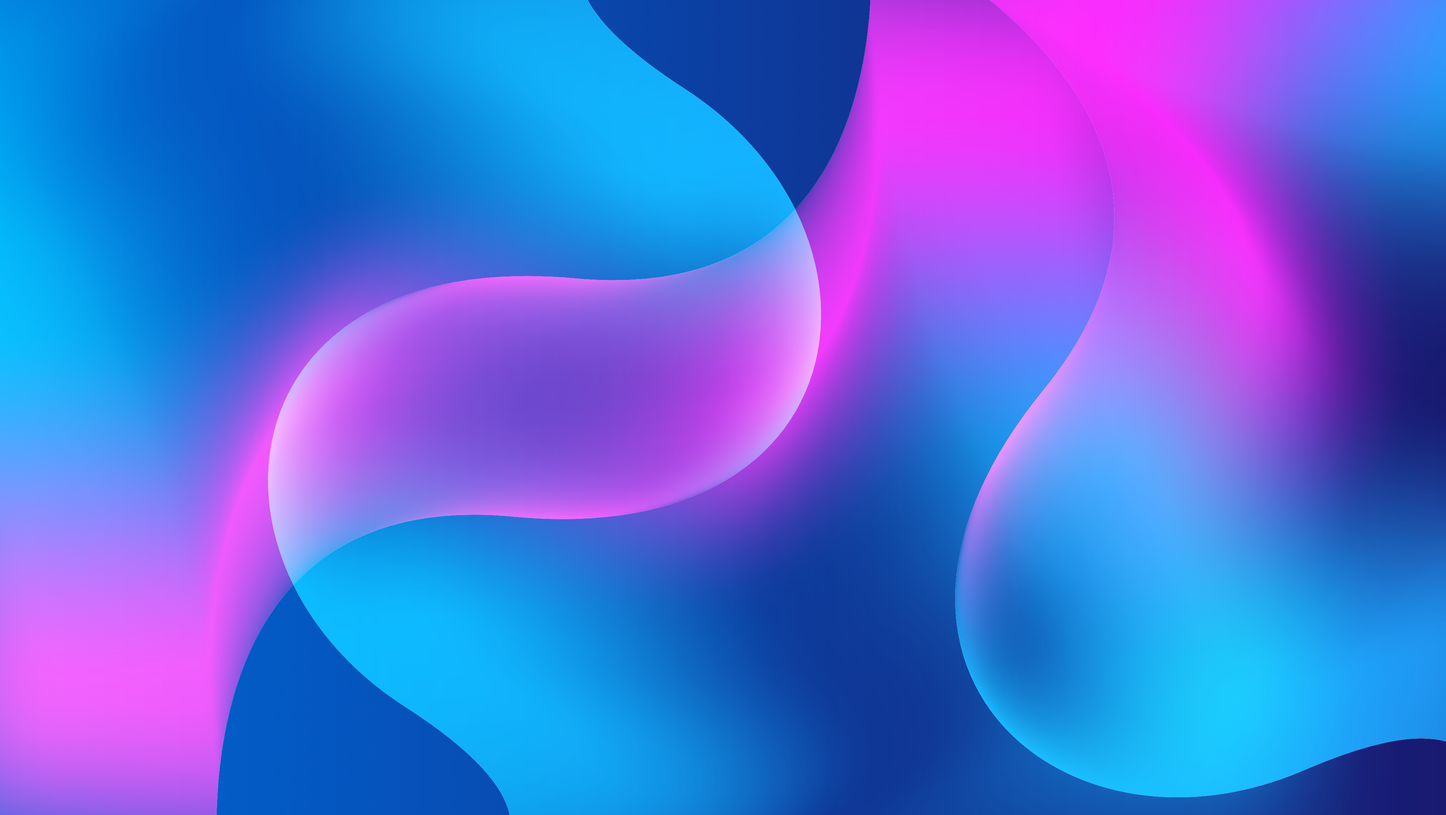
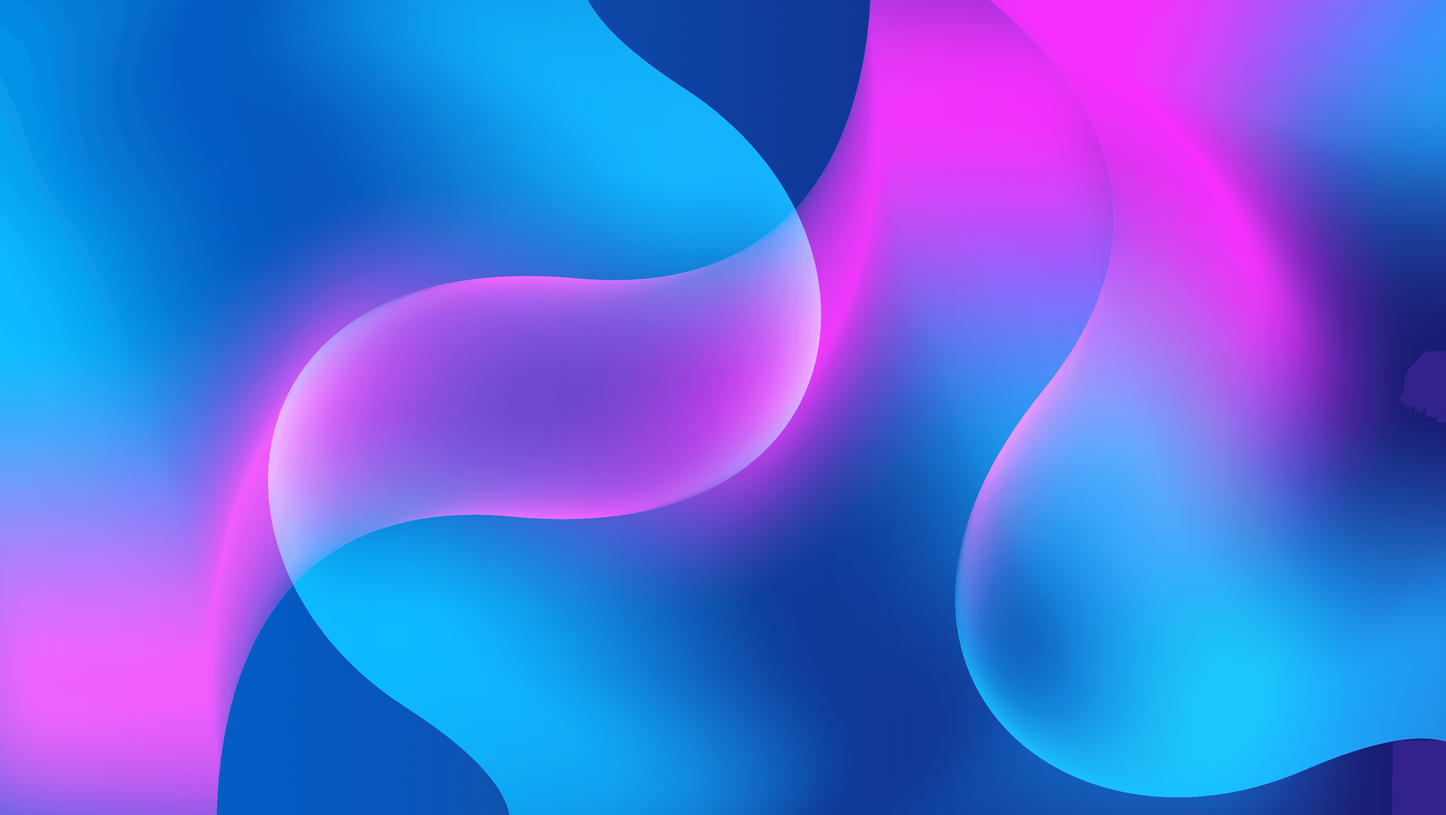
added svh for mobile hero, optmized img bg

Changed region(s): [[0.9632, 0.8995, 1.0, 1.0], [0.9632, 0.4032, 1.0, 0.5273]]

diff --git a/app/components/Hero.js b/app/components/Hero.js
@@ -4,21 +4,17 @@ import {
   AiFillLinkedin,
 } from "react-icons/ai";
 import { FaCode } from "react-icons/fa";
+import Image from "next/image";
 
 export default function Hero() {
   // bg is inside "after:"
   return (
     <section
-      className="relative isolate
-      h-screen max-h-[1500px]
-
-      after:content-[''] after:absolute after:inset-0
-      after:w-full after:h-full 
-      after:bg-[url('/bg.png')] after:bg-cover after:bg-center after:bg-fixed
-      after:rounded-b-2xl after:-z-10"
+      className="relative isolate grid place-items-center
+      min-h-[100vh] min-h-[100svh] max-h-[1500px] overflow-hidden"
     >
       <div
-        className="container h-full w-full 
+        className="container w-full 
           flex-center flex-col gap-8 relative"
       >
         <header className="grid gap-2 text-white">
@@ -73,6 +69,15 @@ export default function Hero() {
           hello, world.
         </div>
       </div>
+      <Image
+        src={"/bg.png"}
+        quality={100}
+        alt=""
+        fill
+        sizes="100vh"
+        className="object-cover -z-10"
+        priority
+      />
     </section>
   );
 }
